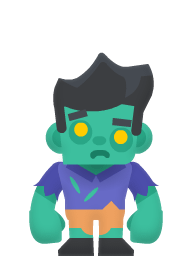
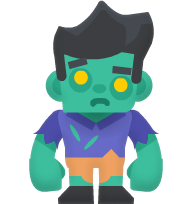
Zombie sprite fixes and start of sprite transitions

diff --git a/enemy.py b/enemy.py
@@ -1,5 +1,7 @@
 import pyasge
 from fsm import FSM
+from damagestates import DamageStates
+
 from player import Player
 from projetiles import Projectiles
 
@@ -18,10 +20,13 @@ class Enemy:
         self.velocity = pyasge.Point2D()
         self.facing = pyasge.Point2D(0, 1)
 
+        self.hp = 10
+        self.fsm = FSM()
         # self.projectiles = Projectiles()
 
     def update(self):
         # self.player_location = Player.get_sprite()
+        self.fsm.update()
         pass
 
     def move_enemy(self, game_time: pyasge.GameTime, player_location: pyasge.Point2D):
@@ -48,7 +53,7 @@ class Enemy:
         self.sprite.x = self.sprite.x + delta_x
         self.sprite.y = self.sprite.y + delta_y
 
-    ## Will be removed when implementating the A* Pathfinding script
+    ## Will be removed when implementation of the A* Pathfinding script is done
     def check_collision(self, dx: float, dy: float) -> pyasge.Point2D():
         bounds = [self.sprite.getWorldBounds().v1,
                   self.sprite.getWorldBounds().v2,

diff --git a/damagestates.py b/damagestates.py
@@ -1,0 +1,9 @@
+from enum import IntEnum
+
+
+class DamageStates(IntEnum):
+    HEALTHY = 0
+    DAMAGED = 1
+    VERY_DAMAGED = 2
+    NEAR_DEAD = 3
+    DEAD = 4
